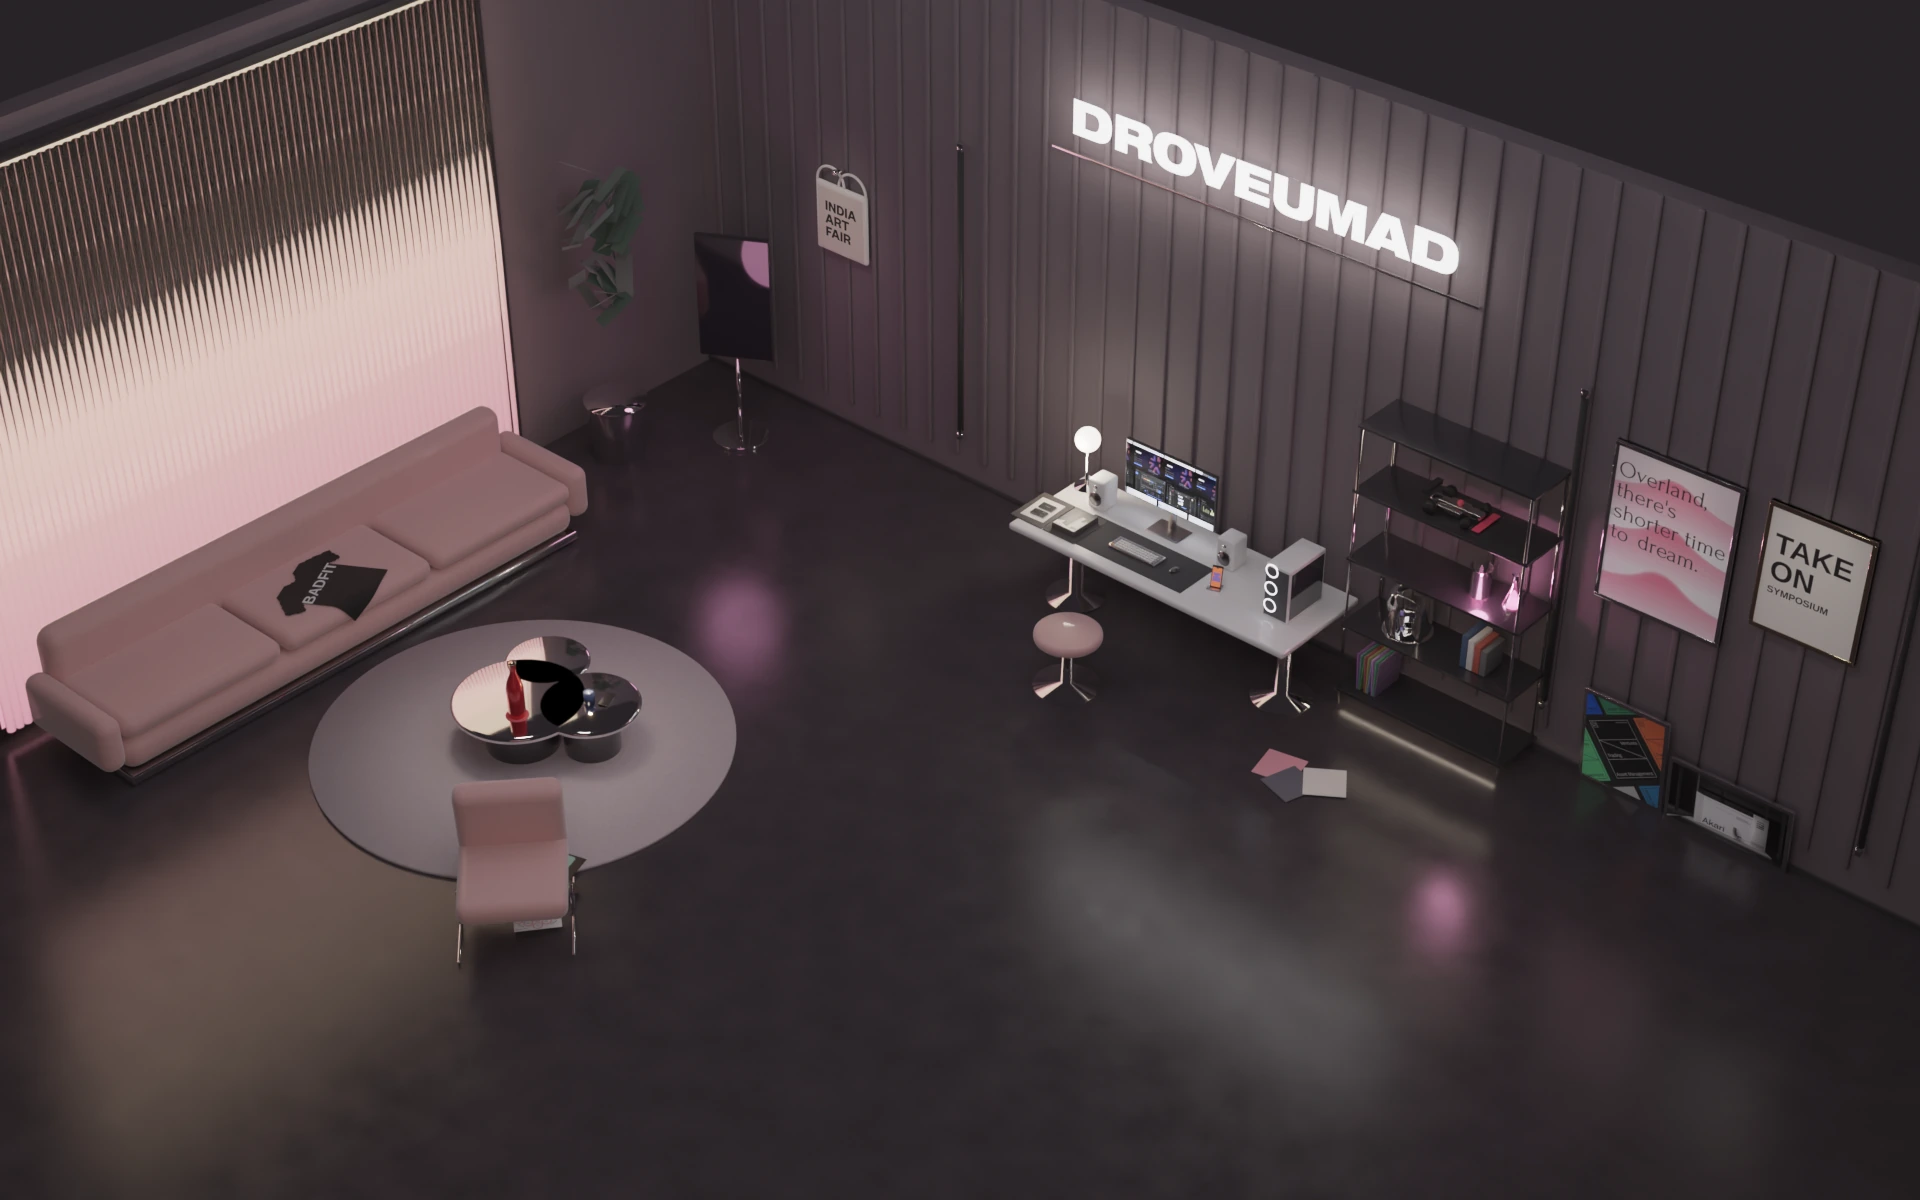
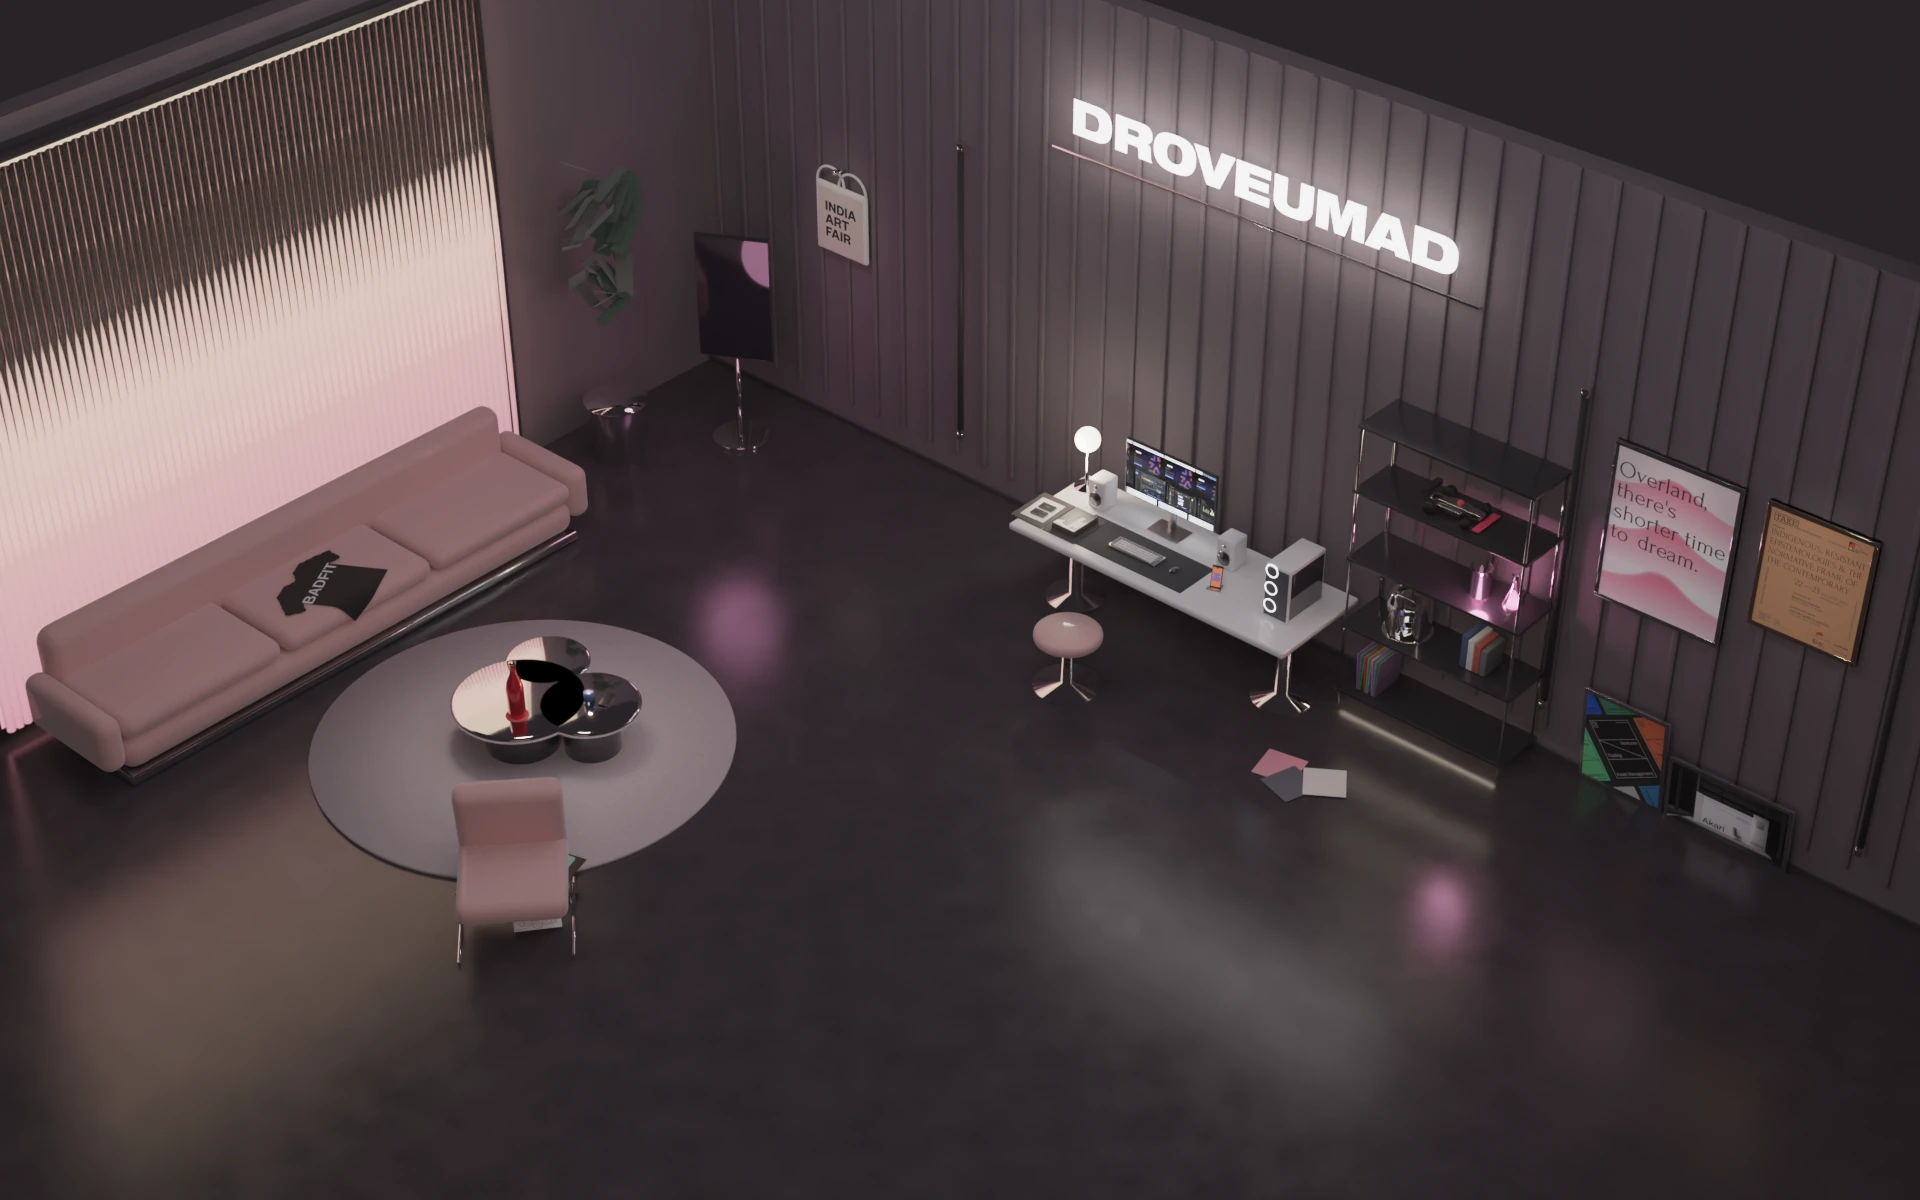
Add files via upload

Changed region(s): [[0.9062, 0.4008, 1.0, 0.555]]

diff --git a/droveumad-site/index.html b/droveumad-site/index.html
@@ -17,6 +17,7 @@
   a{color:inherit}
   #stage{position:fixed;inset:0;transition:filter .6s var(--ease), transform .8s var(--ease)}
   #stage canvas{display:block;width:100%;height:100%}
+  #ovscreen{position:absolute;left:0;top:0;width:300px;height:400px;object-fit:cover;transform-origin:0 0;pointer-events:none;visibility:hidden;backface-visibility:hidden}
   /* SOCIAL: the digital standee, warped onto the screen in the render */
   #standee{position:absolute;left:0;top:0;width:360px;height:638px;transform-origin:0 0;overflow:hidden;background:#000;pointer-events:none;visibility:hidden;backface-visibility:hidden}
   #standee .sd-layer{position:absolute;inset:0;opacity:0;will-change:opacity,transform}
@@ -44,13 +45,13 @@
 
   /* hotspots */
   #hotspots{position:fixed;inset:0;z-index:10;pointer-events:none}
-  .hotspot{position:absolute;left:0;top:0;pointer-events:auto;width:30px;height:30px;margin:-59px 0 0 -15px;border-radius:999px;border:1.5px solid rgba(255,255,255,.92);background:rgba(0,0,0,.25);backdrop-filter:blur(6px);-webkit-backdrop-filter:blur(6px);cursor:pointer;display:flex;align-items:center;justify-content:center;transition:background-color .25s ease,border-color .25s ease,transform .3s var(--ease),opacity .3s ease}
+  .hotspot{position:absolute;left:0;top:0;pointer-events:auto;width:30px;height:30px;margin:-59px 0 0 -15px;border-radius:999px;border:1.5px solid rgba(255,255,255,.92);background:rgba(0,0,0,.25);backdrop-filter:blur(6px);-webkit-backdrop-filter:blur(6px);cursor:pointer;display:flex;align-items:center;justify-content:center;transition:background-color .25s ease,border-color .25s ease,scale .3s var(--ease),opacity .3s ease;will-change:translate}
   .hotspot svg{width:12px;height:12px}
   .hotspot .lead{position:absolute;left:50%;top:30px;width:1px;height:29px;background:linear-gradient(rgba(255,255,255,.85),rgba(255,255,255,.35));transform:translateX(-50%);pointer-events:none}
   .hotspot .pin{position:absolute;left:50%;top:59px;width:6px;height:6px;margin:-3px 0 0 -3px;border-radius:50%;background:#fff;box-shadow:0 0 0 3px rgba(0,0,0,.28),0 0 8px rgba(255,255,255,.6);pointer-events:none}
   .hotspot:hover .pin,.hotspot:focus-visible .pin{background:var(--lav)}
   .hotspot::after{content:'';position:absolute;inset:-7px;border-radius:999px;border:1px solid rgba(214,212,253,.55);animation:ping 2.4s var(--ease) infinite}
-  .hotspot:hover,.hotspot:focus-visible{background:var(--lav);border-color:var(--lav);color:#000;transform:scale(1.12);outline:none}
+  .hotspot:hover,.hotspot:focus-visible{background:var(--lav);border-color:var(--lav);color:#000;scale:1.12;outline:none}
   .hotspot .tag{position:absolute;left:44px;top:50%;transform:translate(-6px,-50%);opacity:0;white-space:nowrap;pointer-events:none;background:rgba(8,8,8,.72);backdrop-filter:blur(14px);-webkit-backdrop-filter:blur(14px);border:1px solid rgba(255,255,255,.14);border-radius:999px;padding:7px 12px;display:flex;gap:10px;align-items:baseline;transition:opacity .25s ease,transform .3s var(--ease);color:var(--paper)}
   .hotspot .tag b{font-size:13px;font-weight:700;letter-spacing:.02em;text-transform:uppercase}
   .hotspot .tag span{font-size:11px;color:#a8a8a8}
@@ -58,11 +59,11 @@
   @keyframes ping{0%{transform:scale(.8);opacity:.9}70%,100%{transform:scale(1.5);opacity:0}}
 
   /* Index (the simple structure) */
-  #index{position:fixed;inset:0;z-index:30;display:flex;flex-direction:column;justify-content:flex-end;padding:90px 28px 70px;opacity:0;pointer-events:none;transition:opacity .45s ease}
-  body.index-open #index{opacity:1;pointer-events:none}
-  body.index-open #index > *{pointer-events:auto}
-  body.index-open #index ol{pointer-events:none}
-  body.index-open #index li button{pointer-events:auto}
+  /* the index sits below the nav and scrolls on its own; the nav and Close stay on top of it */
+  #index{position:fixed;inset:0;z-index:30;display:flex;flex-direction:column;justify-content:flex-start;padding:118px 28px 96px;opacity:0;pointer-events:none;transition:opacity .45s ease;overflow-y:auto;overscroll-behavior:contain;-webkit-mask-image:linear-gradient(transparent 0,#000 104px,#000 calc(100% - 96px),transparent calc(100% - 64px));mask-image:linear-gradient(transparent 0,#000 104px,#000 calc(100% - 96px),transparent calc(100% - 64px))}
+  #index > *{flex:none}
+  body.index-open #index{opacity:1;pointer-events:auto}
+  body.index-open .corner{z-index:35}
   #index .head{display:flex;justify-content:space-between;align-items:baseline;margin-bottom:18px;color:#a8a8a8;font-size:12px;letter-spacing:.08em}
   #index .filters{display:flex;gap:6px;flex-wrap:wrap;margin-bottom:22px;position:relative}
   #index .fpill{position:absolute;left:0;top:0;border-radius:999px;background:var(--lav);z-index:0;pointer-events:none;transition:transform .45s cubic-bezier(.2,.8,.2,1),width .45s cubic-bezier(.2,.8,.2,1)}
@@ -70,7 +71,7 @@
   #index .filters button[aria-pressed=true]{background:transparent;color:#000;border-color:transparent}
   #index ol{list-style:none;margin:0;padding:0;columns:2;column-gap:40px;max-width:1100px}
   #index li{break-inside:avoid}
-  #index li button{background:none;border:0;padding:3px 0;cursor:pointer;display:flex;gap:14px;align-items:baseline;text-align:left;font-size:clamp(22px,2.6vw,38px);line-height:1.08;font-weight:700;letter-spacing:-.02em;color:var(--paper);opacity:0;transform:translateY(10px);transition:color .2s ease,opacity .5s var(--ease),transform .5s var(--ease)}
+  #index li button{background:none;border:0;padding:3px 0;cursor:pointer;display:flex;gap:14px;align-items:baseline;text-align:left;font-size:clamp(20px,2.1vw,32px);line-height:1.1;font-weight:700;letter-spacing:-.02em;color:var(--paper);opacity:0;transform:translateY(10px);transition:color .2s ease,opacity .5s var(--ease),transform .5s var(--ease)}
   body.index-open #index li button{opacity:1;transform:none}
   #index li button .n{font-family:'General Sans',sans-serif;font-variant-numeric:tabular-nums;font-size:12px;font-weight:400;color:#8e8e8e;letter-spacing:0;min-width:22px}
   #index li button .y{font-family:'General Sans',sans-serif;font-variant-numeric:tabular-nums;font-size:12px;font-weight:400;color:#8e8e8e}
@@ -127,12 +128,8 @@
   #index .filters button{height:34px;padding:0 14px;border-radius:999px;border:1px solid rgba(255,255,255,.16);background:rgba(255,255,255,.04);cursor:pointer;font-size:13px;font-weight:600}
   #index .filters button[aria-pressed=true]{background:transparent;color:#000;border-color:transparent}
   #index ol{columns:1}
-    #index{padding:84px 16px 96px;justify-content:flex-start;overflow-y:auto;-webkit-overflow-scrolling:touch;overscroll-behavior:contain}
-    body.index-open #index{pointer-events:auto}
-    body.index-open .corner{z-index:35}
-    #index{-webkit-mask-image:linear-gradient(transparent 0,#000 76px,#000 calc(100% - 92px),transparent calc(100% - 60px));mask-image:linear-gradient(transparent 0,#000 76px,#000 calc(100% - 92px),transparent calc(100% - 60px))}
+    #index{padding:84px 16px 96px;-webkit-overflow-scrolling:touch;-webkit-mask-image:linear-gradient(transparent 0,#000 76px,#000 calc(100% - 92px),transparent calc(100% - 60px));mask-image:linear-gradient(transparent 0,#000 76px,#000 calc(100% - 92px),transparent calc(100% - 60px))}
     #index .head{margin-bottom:12px;font-size:11px}
-    #index > *{flex:none}
     #index .filters{flex-wrap:nowrap;overflow-x:auto;scrollbar-width:none;margin:0 -16px 18px;padding:0 16px}
     #index .filters::-webkit-scrollbar{display:none}
     #index .filters button{flex:none;height:32px;padding:0 13px;font-size:12px}

diff --git a/droveumad-site/app.js b/droveumad-site/app.js
@@ -212,12 +212,25 @@ function adj(m) { return [m[4] * m[8] - m[5] * m[7], m[2] * m[7] - m[1] * m[8], 
 function mm(a, b) { const c = []; for (let i = 0; i < 3; i++) for (let j = 0; j < 3; j++) { let t = 0; for (let k = 0; k < 3; k++) t += a[3 * i + k] * b[3 * k + j]; c[3 * i + j] = t; } return c; }
 function mv(m, v) { return [m[0] * v[0] + m[1] * v[1] + m[2] * v[2], m[3] * v[0] + m[4] * v[1] + m[5] * v[2], m[6] * v[0] + m[7] * v[1] + m[8] * v[2]]; }
 function basis(x1, y1, x2, y2, x3, y3, x4, y4) { const m = [x1, x2, x3, y1, y2, y3, 1, 1, 1]; const v = mv(adj(m), [x4, y4, 1]); return mm(m, [v[0], 0, 0, 0, v[1], 0, 0, 0, v[2]]); }
-function placeStandee(cx, cy) {
-  const [tl, tr, br, bl] = SCREEN.map((p) => toScreen(p, cx, cy));
-  const S = basis(0, 0, SDW, 0, 0, SDH, SDW, SDH), D = basis(tl[0], tl[1], tr[0], tr[1], bl[0], bl[1], br[0], br[1]);
+// warp a flat element (w x h) onto four picture-space corners
+function warp(el, quad, w, h, cx, cy) {
+  const [tl, tr, br, bl] = quad.map((p) => toScreen(p, cx, cy));
+  const S = basis(0, 0, w, 0, 0, h, w, h), D = basis(tl[0], tl[1], tr[0], tr[1], bl[0], bl[1], br[0], br[1]);
   const t = mm(D, adj(S)); for (let i = 0; i < 9; i++) t[i] /= t[8];
-  sdEl.style.transform = `matrix3d(${t[0]},${t[3]},0,${t[6]},${t[1]},${t[4]},0,${t[7]},0,0,1,0,${t[2]},${t[5]},0,${t[8]})`;
-  sdEl.style.visibility = 'visible';
+  el.style.transform = `matrix3d(${t[0]},${t[3]},0,${t[6]},${t[1]},${t[4]},0,${t[7]},0,0,1,0,${t[2]},${t[5]},0,${t[8]})`;
+  el.style.visibility = 'visible';
+}
+function placeStandee(cx, cy) { warp(sdEl, SCREEN, SDW, SDH, cx, cy); if (ovEl) warp(ovEl, OVERLAND, OVW, OVH, cx, cy); }
+/* ---------- Overland: the animated poster plays inside its frame ---------- */
+const OVERLAND = [[0.84399, 0.37097], [0.90621, 0.41088], [0.89252, 0.53521], [0.83267, 0.49368]];
+const OVW = 300, OVH = 400;
+let ovEl = null;
+{
+  const v = document.createElement('video');
+  v.id = 'ovscreen'; v.src = 'media/overland-anim.mp4'; v.muted = true; v.loop = true; v.playsInline = true; v.autoplay = true; v.setAttribute('aria-hidden', 'true');
+  v.addEventListener('loadeddata', () => { ovEl = v; v.play().catch(() => {}); }, { once: true });
+  v.addEventListener('error', () => v.remove(), { once: true });
+  document.getElementById('stage').appendChild(v);
 }
 // the loop: poster in, hold, out; then the High Key marks cut through their colours
 const SD_LOOP = 13;
@@ -260,7 +273,7 @@ function placeSpots(cx, cy) {
   for (const s of spots) {
     const [x, y] = toScreen(s.a, cx, cy);
     const off = x < 20 || x > w - 20 || y < 110 || y > h - 60;
-    s.el.style.transform = `translate(${x}px, ${y}px)`;
+    s.el.style.translate = `${x}px ${y}px`;
     s.el.style.visibility = off ? 'hidden' : 'visible';
   }
 }
@@ -330,7 +343,7 @@ function renderIndex() {
 renderIndex();
 // the list area always keeps the height of the full ("All") list: switching categories never moves the header or filters
 function reserveListHeight() {
-  if (innerWidth <= 760) { list.style.minHeight = ''; return; }  // phones: the index is top-anchored and scrolls, nothing to reserve
+  { list.style.minHeight = ''; return; }  // the index is top-anchored and scrolls: nothing to reserve
   const keep = filter; const cur = [...list.children];
   list.style.minHeight = ''; buildList(shownFor('all'), false);
   const h = list.offsetHeight;
